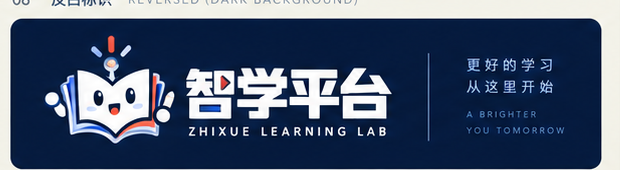
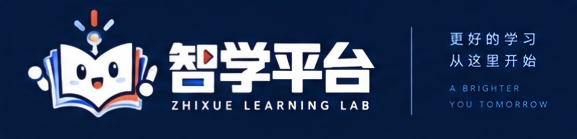
design: freeze zhixue visual system and first vertical slice

diff --git a/frontend/src/features/exam/exam-slice.css b/frontend/src/features/exam/exam-slice.css
@@ -1,0 +1,1 @@
+.exam-page{--ink:#0b1a38;--paper:#f3f0e6;--coral:#ff6a50;--blue:#a9c8d8;--mint:#c8dfd6;--yellow:#f5d885;--rule:#aeb6be;background-color:var(--paper);background-image:linear-gradient(rgba(11,26,56,.045) 1px,transparent 1px),linear-gradient(90deg,rgba(11,26,56,.045) 1px,transparent 1px);background-size:24px 24px;color:var(--ink);min-height:calc(100vh - 64px);padding:0 max(24px,calc((100vw - 1320px)/2)) 76px}.exam-page h1,.exam-page h2,.exam-page h3,.exam-page p{margin-top:0}.exam-page p{letter-spacing:.08em;font-size:.72rem}.exam-page h1{font-size:clamp(3.4rem,6.5vw,6.8rem);line-height:.92;letter-spacing:-.075em}.exam-page h2{font-size:clamp(2rem,4.2vw,4.5rem);line-height:.94;letter-spacing:-.065em}.exam-page article{max-width:36rem;color:#526078;line-height:1.8}.exam-page footer{border-top:1px solid var(--rule);padding-top:24px;color:#526078;font-size:.85rem;line-height:1.7}.exam-action{display:inline-flex;align-items:center;gap:12px;min-height:48px;padding:0 18px;background:var(--coral);color:var(--ink);font-weight:800;text-decoration:none}.exam-action:hover{background:#ff806a}.exam-crumb{display:flex;justify-content:space-between;align-items:center;min-height:76px;border-bottom:1px solid var(--rule);font-size:.8rem}.exam-crumb a{display:flex;gap:6px;color:var(--ink);text-decoration:none}.journal-note{display:inline-block;background:var(--yellow);padding:18px 22px;color:var(--ink);font-family:cursive;font-size:1rem;line-height:1.5;box-shadow:8px 8px 0 rgba(11,26,56,.12);transform:rotate(-4deg)}.world-intro,.journal-hero,.os-hero{display:grid;gap:6vw;align-items:center}.world-intro{grid-template-columns:1fr 1fr;padding:8vw 0 4vw}.world-note{margin:0 0 52px 8%;background:#f9e4bd}.target-map{border:1px solid var(--ink);padding:32px;display:grid;grid-template-columns:1fr 55px 1fr;gap:16px;align-items:center;background:rgba(255,255,255,.35)}.target-map>div{display:grid;gap:6px}.target-map small,.os-current small{letter-spacing:.12em;font-size:.65rem}.target-map strong{font-size:2rem}.target-map>i{height:1px;background:var(--ink)}.target-map ol{grid-column:1/-1;display:grid;grid-template-columns:repeat(4,1fr);gap:8px;margin:18px 0 0;padding:0;list-style:none}.target-map li{display:grid;gap:4px;border-top:2px solid var(--ink);padding-top:10px;font-size:.85rem}.target-map li b{color:#63748e}.target-map li.is-current{border-color:var(--coral);color:var(--coral)}.target-map p{grid-column:1/-1;margin:0;color:#63748e;letter-spacing:0}.study-route-page .journal-hero{grid-template-columns:.8fr 1.2fr;padding:7vw 0}.route-sheet{position:relative;border:1px solid var(--ink);padding:30px;background:rgba(255,255,255,.25)}.route-sheet>.journal-note{position:absolute;right:-12px;bottom:-35px;background:var(--mint);font-size:.85rem}.subject-route{display:grid;grid-template-columns:repeat(4,1fr);margin:28px 0}.subject-route a{position:relative;display:grid;gap:4px;color:var(--ink);text-decoration:none;border-top:2px solid var(--ink);padding:13px 8px 0}.subject-route a>i{position:absolute;right:-8px;top:24px;width:15px;height:1px;background:var(--ink)}.subject-route b{font-size:.7rem;color:#71809a}.subject-route strong{font-size:1.55rem}.subject-route span{font-size:.78rem}.subject-route .is-current{background:var(--ink);color:var(--paper);padding:13px 10px}.focus-panel{display:grid;grid-template-columns:1fr .6fr;gap:8vw;border-top:2px solid var(--ink);border-bottom:1px solid var(--rule);padding:48px 0;margin-bottom:54px}.focus-panel h2 span{color:var(--coral)}.focus-panel>div:last-child{display:grid;align-content:center;justify-items:start;border-left:1px solid var(--ink);padding-left:32px}.focus-panel strong{font-size:5rem;line-height:.8}.focus-panel a{color:var(--ink);font-weight:700}.exam-next{display:flex;justify-content:space-between;gap:30px;align-items:end;border-top:2px solid var(--ink);border-bottom:1px solid var(--rule);padding:30px 0}.exam-next .exam-action{margin:0}.os-hero{grid-template-columns:1fr 1.05fr .66fr;padding:5vw 0 4vw;border-bottom:2px solid var(--ink)}.os-hero .journal-note{margin-top:35px;background:#f6e09b}.os-current{display:grid;gap:11px;border-left:1px solid var(--ink);padding-left:24px}.os-current strong{font-size:1.6rem;line-height:1.1}.memory-diagram{display:grid;grid-template-columns:1fr 38px 1fr 38px 1fr;gap:7px;align-items:center;margin:0;padding:20px;border:1px solid var(--rule);background:rgba(255,255,255,.34)}.memory-diagram>div{display:grid;gap:9px;min-height:130px;padding:13px 10px;border:1px solid var(--rule);background:#eef1ec}.memory-diagram .is-table{background:#e6edf0}.memory-diagram .is-frame{background:linear-gradient(#d2e5df 0 33%,#f8df96 33% 66%,#cbd8df 66%)}.memory-diagram b{font-size:.56rem;letter-spacing:.05em}.memory-diagram strong{font-size:1.2rem}.memory-diagram span{font-size:.65rem;color:#51617a}.memory-diagram>i{height:1px;background:var(--ink)}.memory-diagram figcaption{grid-column:1/-1;margin-top:12px;text-align:center;font-weight:700;font-size:.75rem}.memory-diagram em{padding:0 8px;color:var(--coral);font-style:normal}.os-map{position:relative;display:grid;grid-template-columns:.6fr 1.4fr;gap:6vw;padding:56px 0}.knowledge-path{position:relative;display:grid;gap:0;margin:0;padding:0;list-style:none}.knowledge-path:before{position:absolute;left:14px;top:28px;bottom:28px;width:1px;background:var(--rule);content:''}.knowledge-path li{position:relative;display:grid;grid-template-columns:40px 1fr .8fr auto;gap:14px;align-items:center;min-height:100px;border-bottom:1px solid var(--rule)}.knowledge-path li>span{z-index:1;width:13px;height:13px;border:2px solid var(--ink);border-radius:50%;background:var(--paper)}.knowledge-path li.is-current{margin-left:-15px;padding:0 15px;border-left:3px solid var(--coral);background:rgba(255,106,80,.12)}.knowledge-path li.is-current>span{border-color:var(--coral);background:var(--coral)}.knowledge-path h3{margin:0 0 5px;font-size:1.35rem}.knowledge-path p{margin:0;color:#526078;letter-spacing:0}.knowledge-path small{color:#63748e}.knowledge-path .exam-action{min-height:42px;margin:0}.map-note{position:absolute;left:3%;bottom:3px;background:#f9e4bd}.workspace header{max-width:66rem;padding:44px 0 30px}.workspace-journal{display:grid;grid-template-columns:1fr 210px;gap:5vw;border-top:2px solid var(--ink);padding-top:24px}.steps{display:flex;gap:18px;font-size:.75rem}.steps b{border-bottom:3px solid var(--coral);padding-bottom:10px}.lede{font-size:1.18rem;margin:30px 0}.mapping-sheet{display:grid;grid-template-columns:.65fr 1.35fr;gap:26px;padding:28px;border:1px solid var(--ink);background:rgba(235,242,244,.65)}.mapping-sheet h2{font-size:2.4rem}.mapping-sheet .journal-note{margin-top:28px;background:#f6e09b;font-size:.82rem}.mapping-sheet .memory-diagram{align-self:center}.mapping-sheet ol{grid-column:1/-1;display:grid;grid-template-columns:repeat(3,1fr);gap:10px;margin:0;padding:0;list-style:none}.mapping-sheet li{border-top:2px solid var(--ink);padding-top:8px;font-size:.84rem}.mapping-sheet li b{display:block;color:var(--coral);font-size:.7rem}.tool-rail{display:grid;align-content:start;gap:9px;border-left:1px solid var(--ink);padding-left:16px}.tool-rail>p{margin:0 0 10px}.workspace button{min-height:44px;border:1px solid var(--ink);background:transparent;color:var(--ink);font-weight:700}.tool-rail button{display:flex;gap:7px;align-items:center;padding:0 10px;text-align:left}.tool{padding:14px;background:#f9e4bd;border-left:3px solid var(--coral);line-height:1.6;font-size:.85rem}.tool p{letter-spacing:0}.check{display:flex;justify-content:space-between;gap:24px;border-bottom:1px solid var(--rule);padding:28px 0}.check h2{font-size:1.8rem}.check button{padding:0 16px;align-self:end}.exam-page a:focus-visible,.exam-page button:focus-visible{outline:3px solid var(--coral);outline-offset:4px}@media(max-width:760px){.exam-page{padding:0 16px 52px;background-size:18px 18px}.exam-page h1{font-size:clamp(3rem,14vw,4.7rem)}.exam-crumb{align-items:flex-start;flex-direction:column;gap:10px;padding:15px 0}.world-intro,.journal-hero,.os-hero,.focus-panel,.os-map,.workspace-journal,.mapping-sheet{grid-template-columns:1fr;gap:28px}.world-intro,.study-route-page .journal-hero{padding:55px 0}.target-map{grid-template-columns:1fr 30px 1fr;padding:20px}.target-map ol{grid-template-columns:repeat(2,1fr)}.world-note{margin-left:0}.route-sheet>.journal-note{position:static;margin-top:24px}.subject-route{grid-template-columns:repeat(2,1fr)}.subject-route a:nth-child(2)>i{display:none}.focus-panel>div:last-child,.os-current{border-left:0;border-top:1px solid var(--ink);padding:22px 0 0}.os-current{grid-template-columns:1fr;}.memory-diagram{grid-template-columns:1fr;gap:10px}.memory-diagram>i{width:1px;height:18px;margin-left:18px}.memory-diagram>div{min-height:78px}.os-map{padding-top:45px}.knowledge-path li{grid-template-columns:32px 1fr;gap:10px;padding:16px 0}.knowledge-path li>small,.knowledge-path .exam-action{grid-column:2}.knowledge-path .exam-action{justify-self:start}.map-note{position:static;margin-top:12px}.workspace header{padding-top:35px}.steps{justify-content:space-between;gap:6px;font-size:.68rem}.lede{font-size:1.08rem}.mapping-sheet{padding:20px}.mapping-sheet h2{font-size:2.15rem}.mapping-sheet ol{grid-template-columns:1fr}.tool-rail{grid-template-columns:repeat(3,1fr);border-left:0;border-top:1px solid var(--ink);padding:16px 0 0}.tool-rail>p,.tool{grid-column:1/-1}.tool-rail button{min-height:48px;justify-content:center;padding:0 5px;font-size:.76rem}.tool-rail svg{display:none}.check{align-items:flex-start;flex-direction:column}.exam-next{align-items:flex-start;flex-direction:column}}

diff --git a/frontend/src/features/exam/exam-slice.tsx b/frontend/src/features/exam/exam-slice.tsx
@@ -1,0 +1,21 @@
+import { useState } from 'react';
+import { Link, useLocation } from '@tanstack/react-router';
+import { ArrowLeft, ArrowUpRight, Bot, FileText, Play } from 'lucide-react';
+import './exam-slice.css';
+import './exam-slice-v2-fixes.css';
+import './exam-slice-v2-1.css';
+
+const subjects = [['数据结构', 'DS'], ['计算机组成原理', 'CO'], ['操作系统', 'OS'], ['计算机网络', 'CN']] as const;
+const nodes = [['MM-01', '存储管理基础', '逻辑地址与物理地址'], ['MM-02', '虚拟内存地址映射', '页号、页表与物理帧'], ['MM-03', '页面置换算法', '缺页处理与置换策略'], ['MM-04', '工作集与抖动', '局部性与内存分配']] as const;
+const A = ({ children }: { children: React.ReactNode }) => <Link className="exam-action" to="/exam/11408/operating-system/workspace">{children}<ArrowUpRight aria-hidden="true" /></Link>;
+const Crumb = ({ current, back }: { current: string; back: string }) => <div className="exam-crumb"><Link to={back as '/exam' | '/exam/11408'}><ArrowLeft aria-hidden="true" />返回</Link><span>考研 / 11408 / {current}</span></div>;
+
+function Note({ children, className = '' }: { children: React.ReactNode; className?: string }) { return <aside className={`journal-note ${className}`}>{children}</aside>; }
+function MemoryDiagram() { return <figure className="memory-diagram" aria-label="虚拟地址经页表映射到物理帧"><div><b>VIRTUAL ADDRESS</b><strong>PAGE 02</strong><span>OFFSET 0x3F</span></div><i /><div className="is-table"><b>PAGE TABLE</b><strong>ROW 02</strong><span>FRAME 05</span></div><i /><div className="is-frame"><b>PHYSICAL FRAME</b><strong>05</strong><span>OFFSET 0x3F</span></div><figcaption>虚拟地址 <em>→</em> 页表 <em>→</em> 物理帧</figcaption></figure>; }
+function SubjectRoute() { return <div className="subject-route" aria-label="11408 四科备考路线">{subjects.map(([name, code], index) => <Link key={code} to={code === 'OS' ? '/exam/11408/operating-system' : '/exam/11408'} className={code === 'OS' ? 'is-current' : ''}><b>{String(index + 1).padStart(2, '0')}</b><strong>{code}</strong><span>{name}</span>{index < 3 && <i aria-hidden="true" />}</Link>)}</div>; }
+function TargetMap() { return <div className="target-map" aria-label="11408 考试目标图"><div><small>TARGET</small><strong>计算机考研</strong></div><i /><div><small>EXAM CODE</small><strong>11408</strong><span>当前开放目标</span></div><ol>{subjects.map(([name, code]) => <li className={code === 'OS' ? 'is-current' : ''} key={code}><b>{code}</b>{name}</li>)}</ol><p>OS 是当前学习焦点，不代表个人进度。</p></div>; }
+
+export function ExamWorldPage() { const pathname = useLocation({ select: l => l.pathname }); if (pathname.endsWith('/workspace')) return <LearningWorkspacePage />; if (pathname.endsWith('/operating-system')) return <OperatingSystemPage />; if (pathname.endsWith('/11408')) return <Exam11408Page />; return <main className="exam-page exam-world"><section className="world-intro"><div><p>考研学习 / TARGET MAP</p><h1>把准备，放回<br />一个明确的目标里。</h1><article>选择考试目标，然后沿着阶段、科目与知识结构继续推进。当前开放的完整目标是计算机考研 11408。</article><Link className="exam-action" to="/exam/11408">进入 11408<ArrowUpRight aria-hidden="true" /></Link></div><TargetMap /></section><Note className="world-note">目标不是待办清单。<br />它是一条可回看的学习坐标。</Note><footer>数学、英语、联考等方向保留为后续扩展架构；当前不展示未实现的学习数据或入口。</footer></main>; }
+export function Exam11408Page() { return <main className="exam-page study-route-page"><Crumb current="11408" back="/exam" /><section className="journal-hero"><div><p>2027 计算机考研 / STUDY ROUTE</p><h1>11408 的<br />备考地图</h1><article>从四门基础课出发，把当前节点、下一行动与完整路径放在同一张目标图里。</article></div><div className="route-sheet"><b>11408 / FOUR SUBJECTS</b><SubjectRoute /><Note>沿目标轴进入学习，<br />而不是把四科拆成四张卡片。</Note></div></section><section className="focus-panel"><div><p>当前学习焦点</p><h2>操作系统<br /><span>存储管理</span></h2><article>当前焦点是结构位置，不是完成百分比或个人掌握度。</article></div><div><small>FOCUS</small><strong>OS</strong><Link to="/exam/11408/operating-system">查看知识结构 <ArrowUpRight /></Link></div></section><section className="exam-next"><div><p>下一结构节点</p><h2>页面置换算法</h2><article>这是虚拟内存地址映射完成后的结构性下一步，并非 AI 推荐。</article></div><A>继续学习</A></section></main>; }
+export function OperatingSystemPage() { return <main className="exam-page os-page"><Crumb current="操作系统" back="/exam/11408" /><section className="os-hero"><div><p>11408 / 操作系统 / KNOWLEDGE MAP</p><h1>从备考目标，进入<br />知识的组织方式。</h1><article>当前聚焦存储管理。这里展示知识结构和可进入的学习行动，而不是课程式目录。</article><Note>先理解地址映射，<br />再处理页面置换。</Note></div><MemoryDiagram /><div className="os-current"><small>当前节点</small><strong>虚拟内存地址映射</strong><span>页号、页表与物理帧</span><A>继续学习</A></div></section><section className="os-map"><div><p>存储管理 / MEMORY MANAGEMENT</p><h2>从地址到<br />物理帧</h2><article>沿节点推进：先理解地址映射，再处理页面置换。</article></div><ol className="knowledge-path">{nodes.map(([id, name, note], index) => <li className={index === 1 ? 'is-current' : ''} key={id}><span /><b>{id}</b><div><h3>{name}</h3><p>{note}</p></div>{index === 1 ? <><small>当前学习节点</small><A>开始当前节点</A></> : <small>{index === 0 ? '建立概念基础' : index === 2 ? '处理缺页异常' : '进入性能视角'}</small>}</li>)}</ol><Note className="map-note">理解映射的本质，<br />才能真正掌握虚拟内存。</Note></section><footer>章节练习与个人学习状态将在真实 API 可用时读取；未以示例进度、掌握度或题目数量替代。</footer></main>; }
+export function LearningWorkspacePage() { const [tool, setTool] = useState<'none' | 'ai' | 'resource' | 'relation' | 'hint'>('none'); const title = tool === 'ai' ? 'AI Tutor' : tool === 'resource' ? '相关资料' : tool === 'relation' ? '关联关系' : '提示'; const text = tool === 'ai' ? '提问会自动携带：11408 · 操作系统 · 存储管理 · 虚拟内存。' : tool === 'relation' ? '页表连接虚拟页号与物理帧号；页内偏移在映射两端保持同一位置。' : '页表把虚页号换成物理帧号；页内偏移描述页内位置，所以它无需改变。'; return <main className="exam-page workspace"><Crumb current="虚拟内存地址映射" back="/exam/11408/operating-system" /><header><p>11408 · 操作系统 · 存储管理 / LEARNING JOURNAL</p><h1>一个虚拟地址，是怎样找到物理内存中的位置的？</h1><span>当前学习对象：虚拟内存地址映射</span></header><section className="workspace-journal"><div><nav className="steps"><b>01 理解</b><span>02 映射</span><span>03 结果</span><span>04 检查</span></nav><article className="lede">程序看到的是虚拟地址；硬件与操作系统通过页表，把其中的页号定位到一个物理帧，再保留页内偏移完成转换。</article><div className="mapping-sheet"><div><p>VISUAL EXPLANATION</p><h2>地址翻译的<br />三个保留与替换</h2><Note>页号会被替换，<br />页内偏移不会改变。</Note></div><MemoryDiagram /><ol><li><b>01</b>保留页内偏移</li><li><b>02</b>页表查找物理帧</li><li><b>03</b>组合成物理地址</li></ol></div><div className="check"><div><p>轻量检查 / CHECK</p><h2>页内偏移在映射后为什么不变？</h2></div><button onClick={() => setTool('hint')}>查看提示</button></div></div><aside className="tool-rail"><p>CONTEXT TOOLS</p><button onClick={() => setTool(tool === 'ai' ? 'none' : 'ai')}><Bot />问 AI</button><button onClick={() => setTool(tool === 'resource' ? 'none' : 'resource')}><FileText />相关资料</button><button onClick={() => setTool(tool === 'relation' ? 'none' : 'relation')}>↗ 关联关系</button>{tool !== 'none' && <div className="tool"><strong>{title}</strong><p>{text}</p></div>}</aside></section><section className="exam-next"><div><p>完成后 / NEXT</p><h2>继续到页面置换算法</h2><article>这是存储管理路径中的下一个结构节点，不是个人化或 AI 推荐。</article></div><Link className="exam-action" to="/exam/11408/operating-system">回到知识结构 <ArrowUpRight /></Link></section><footer><Play />练习入口将使用现有章节题目接口；当前原型不伪造统一题库。</footer></main>; }

diff --git a/frontend/src/features/exam/exam-slice-v2-1.css b/frontend/src/features/exam/exam-slice-v2-1.css
@@ -1,0 +1,85 @@
+/* V2.1: composition coordination; preserves the V2 journal system. */
+.target-map { position: relative; }
+.target-map::before { position: absolute; left: 17%; right: 17%; top: 39%; height: 1px; background: var(--coral); content: ''; }
+.target-map ol { position: relative; }
+.target-map li::before { display: block; width: 7px; height: 7px; margin: -14px 0 9px; border: 1px solid var(--ink); border-radius: 50%; background: var(--paper); content: ''; }
+.target-map li.is-current::before { border-color: var(--coral); background: var(--coral); }
+
+.os-hero .memory-diagram { position: relative; margin-top: 26px; }
+.os-hero .memory-diagram::before { position: absolute; top: -28px; left: -42px; width: 66px; height: 28px; border-top: 1px solid var(--coral); border-left: 1px solid var(--coral); content: ''; }
+.os-current { align-self: center; }
+.tool-rail { position: relative; }
+.tool-rail::before { position: absolute; top: 0; bottom: 0; left: -1px; width: 3px; background: var(--coral); content: ''; }
+.tool-rail button { border: 0; border-bottom: 1px solid var(--rule); }
+.tool-rail button::before { color: var(--coral); font-size: .65rem; font-weight: 800; }
+.tool-rail button:nth-of-type(1)::before { content: '01'; }
+.tool-rail button:nth-of-type(2)::before { content: '02'; }
+.tool-rail button:nth-of-type(3)::before { content: '03'; }
+
+@media (max-width: 600px) {
+  .exam-page { padding-inline: 16px; }
+  .exam-page h1 { font-size: clamp(2.65rem, 12.5vw, 3.75rem); line-height: .96; }
+  .exam-page h2 { font-size: clamp(1.9rem, 9.5vw, 2.8rem); }
+  .world-intro, .study-route-page .journal-hero { padding-block: 42px 32px; }
+  .world-intro > div > article, .journal-hero > div > article { margin-bottom: 22px; }
+  .target-map { margin-top: 4px; padding: 22px 18px 18px; }
+  .target-map::before { top: 34%; }
+  .target-map ol { gap: 15px 10px; margin-top: 25px; }
+  .target-map p { margin-top: 9px; }
+
+  .study-route-page .journal-hero { display: flex; flex-direction: column; align-items: stretch; }
+  .study-route-page .journal-hero > div:first-child { max-width: 310px; }
+  .route-sheet { order: 2; padding: 22px 16px; }
+  .route-sheet > .journal-note { display: none; }
+  .subject-route { grid-template-columns: repeat(4, 1fr); margin: 18px 0 2px; }
+  .subject-route a { min-width: 0; padding-inline: 5px; }
+  .subject-route a > i { right: -5px; width: 9px; }
+  .subject-route strong { font-size: 1.28rem; }
+  .subject-route span { font-size: .68rem; line-height: 1.25; word-break: keep-all; }
+  .focus-panel { margin-bottom: 34px; padding: 30px 0; }
+  .focus-panel h2 { margin-bottom: 10px; }
+  .focus-panel > div:last-child { display: grid; grid-template-columns: auto 1fr; column-gap: 17px; align-items: center; }
+  .focus-panel > div:last-child strong { grid-row: 1 / span 2; font-size: 3.7rem; }
+  .focus-panel > div:last-child a { grid-column: 2; }
+
+  .os-hero { display: grid; grid-template-areas: 'identity' 'visual' 'current'; gap: 22px; padding: 32px 0 25px; }
+  .os-hero > div:first-child { grid-area: identity; }
+  .os-hero > .memory-diagram { grid-area: visual; margin-top: 0; }
+  .os-current { grid-area: current; grid-template-columns: 1fr auto; column-gap: 12px; padding: 18px; border: 1px solid var(--coral); border-left: 4px solid var(--coral); background: rgba(255,106,80,.09); }
+  .os-current small, .os-current span { grid-column: 1; }
+  .os-current .exam-action { grid-column: 2; grid-row: 1 / span 3; align-self: center; margin: 0; }
+  .os-hero .journal-note { display: none; }
+  .os-hero .memory-diagram::before { display: none; }
+  .memory-diagram { grid-template-columns: 1fr 20px 1fr 20px 1fr; padding: 14px 10px; }
+  .memory-diagram > div { min-height: 92px; padding: 9px 7px; }
+  .memory-diagram b { font-size: .48rem; }
+  .memory-diagram strong { font-size: 1rem; }
+  .memory-diagram span { font-size: .56rem; }
+  .memory-diagram > i { width: auto; height: 1px; margin: 0; }
+  .os-map { display: block; padding: 35px 0 22px; }
+  .os-map > div:first-child { max-width: 280px; margin-bottom: 24px; }
+  .knowledge-path { gap: 0; }
+  .knowledge-path::before { left: 12px; top: 34px; bottom: 34px; }
+  .knowledge-path li, .knowledge-path li.is-current { display: grid; grid-template-columns: 30px minmax(0, 1fr); gap: 9px; min-height: 0; margin: 0; padding: 20px 0 20px 2px; border-left: 0; background: transparent; }
+  .knowledge-path li.is-current { margin-inline: -4px; padding: 20px 14px 22px 6px; border-left: 3px solid var(--coral); background: rgba(255,106,80,.11); }
+  .knowledge-path li > span { width: 11px; height: 11px; margin-top: 4px; }
+  .knowledge-path li > b { grid-column: 2; grid-row: 1; color: var(--coral); }
+  .knowledge-path li > div { grid-column: 2; grid-row: 2; min-width: 0; }
+  .knowledge-path li h3 { font-size: 1.32rem; line-height: 1.15; white-space: nowrap; word-break: keep-all; }
+  .knowledge-path li p { font-size: .86rem; line-height: 1.55; }
+  .knowledge-path li > small { grid-column: 2; grid-row: 3; margin-top: 3px; }
+  .knowledge-path li.is-current > .exam-action { grid-column: 2; grid-row: 4; justify-self: start; margin-top: 8px; }
+  .map-note { display: none; }
+
+  .workspace header { padding-top: 31px; }
+  .workspace header h1 { max-width: 360px; }
+  .workspace-journal { gap: 22px; }
+  .mapping-sheet { gap: 19px; }
+  .mapping-sheet .journal-note { transform: rotate(-2deg); }
+  .tool-rail { grid-template-columns: 1fr; gap: 0; border: 0; padding: 0 0 0 13px; }
+  .tool-rail::before { left: 0; }
+  .tool-rail > p { margin: 0; padding: 0 0 8px; }
+  .tool-rail button { justify-content: flex-start; min-height: 42px; font-size: .86rem; }
+  .tool-rail svg { display: block; width: 15px; }
+  .tool { margin-top: 10px; }
+}

diff --git a/frontend/src/routeTree.gen.ts b/frontend/src/routeTree.gen.ts
@@ -10,33 +10,88 @@
 
 import { Route as rootRouteImport } from './routes/__root'
 import { Route as IndexRouteImport } from './routes/index'
+import { Route as ExamRouteImport } from './routes/exam'
+import { Route as Exam11408RouteImport } from './routes/exam.11408'
+import { Route as Exam11408OperatingSystemRouteImport } from './routes/exam.11408.operating-system'
+import { Route as Exam11408OperatingSystemWorkspaceRouteImport } from './routes/exam.11408.operating-system.workspace'
 
 const IndexRoute = IndexRouteImport.update({
   id: '/',
   path: '/',
   getParentRoute: () => rootRouteImport,
 } as any)
+const ExamRoute = ExamRouteImport.update({
+  id: '/exam',
+  path: '/exam',
+  getParentRoute: () => rootRouteImport,
+} as any)
+const Exam11408Route = Exam11408RouteImport.update({
+  id: '/11408',
+  path: '/11408',
+  getParentRoute: () => ExamRoute,
+} as any)
+const Exam11408OperatingSystemRoute =
+  Exam11408OperatingSystemRouteImport.update({
+    id: '/operating-system',
+    path: '/operating-system',
+    getParentRoute: () => Exam11408Route,
+  } as any)
+const Exam11408OperatingSystemWorkspaceRoute =
+  Exam11408OperatingSystemWorkspaceRouteImport.update({
+    id: '/workspace',
+    path: '/workspace',
+    getParentRoute: () => Exam11408OperatingSystemRoute,
+  } as any)
 
 export interface FileRoutesByFullPath {
   '/': typeof IndexRoute
+  '/exam': typeof ExamRouteWithChildren
+  '/exam/11408': typeof Exam11408RouteWithChildren
+  '/exam/11408/operating-system': typeof Exam11408OperatingSystemRouteWithChildren
+  '/exam/11408/operating-system/workspace': typeof Exam11408OperatingSystemWorkspaceRoute
 }
 export interface FileRoutesByTo {
   '/': typeof IndexRoute
+  '/exam': typeof ExamRouteWithChildren
+  '/exam/11408': typeof Exam11408RouteWithChildren
+  '/exam/11408/operating-system': typeof Exam11408OperatingSystemRouteWithChildren
+  '/exam/11408/operating-system/workspace': typeof Exam11408OperatingSystemWorkspaceRoute
 }
 export interface FileRoutesById {
   __root__: typeof rootRouteImport
   '/': typeof IndexRoute
+  '/exam': typeof ExamRouteWithChildren
+  '/exam/11408': typeof Exam11408RouteWithChildren
+  '/exam/11408/operating-system': typeof Exam11408OperatingSystemRouteWithChildren
+  '/exam/11408/operating-system/workspace': typeof Exam11408OperatingSystemWorkspaceRoute
 }
 export interface FileRouteTypes {
   fileRoutesByFullPath: FileRoutesByFullPath
-  fullPaths: '/'
+  fullPaths:
+    | '/'
+    | '/exam'
+    | '/exam/11408'
+    | '/exam/11408/operating-system'
+    | '/exam/11408/operating-system/workspace'
   fileRoutesByTo: FileRoutesByTo
-  to: '/'
-  id: '__root__' | '/'
+  to:
+    | '/'
+    | '/exam'
+    | '/exam/11408'
+    | '/exam/11408/operating-system'
+    | '/exam/11408/operating-system/workspace'
+  id:
+    | '__root__'
+    | '/'
+    | '/exam'
+    | '/exam/11408'
+    | '/exam/11408/operating-system'
+    | '/exam/11408/operating-system/workspace'
   fileRoutesById: FileRoutesById
 }
 export interface RootRouteChildren {
   IndexRoute: typeof IndexRoute
+  ExamRoute: typeof ExamRouteWithChildren
 }
 
 declare module '@tanstack/react-router' {
@@ -48,11 +103,77 @@ declare module '@tanstack/react-router' {
       preLoaderRoute: typeof IndexRouteImport
       parentRoute: typeof rootRouteImport
     }
+    '/exam': {
+      id: '/exam'
+      path: '/exam'
+      fullPath: '/exam'
+      preLoaderRoute: typeof ExamRouteImport
+      parentRoute: typeof rootRouteImport
+    }
+    '/exam/11408': {
+      id: '/exam/11408'
+      path: '/11408'
+      fullPath: '/exam/11408'
+      preLoaderRoute: typeof Exam11408RouteImport
+      parentRoute: typeof ExamRoute
+    }
+    '/exam/11408/operating-system': {
+      id: '/exam/11408/operating-system'
+      path: '/operating-system'
+      fullPath: '/exam/11408/operating-system'
+      preLoaderRoute: typeof Exam11408OperatingSystemRouteImport
+      parentRoute: typeof Exam11408Route
+    }
+    '/exam/11408/operating-system/workspace': {
+      id: '/exam/11408/operating-system/workspace'
+      path: '/workspace'
+      fullPath: '/exam/11408/operating-system/workspace'
+      preLoaderRoute: typeof Exam11408OperatingSystemWorkspaceRouteImport
+      parentRoute: typeof Exam11408OperatingSystemRoute
+    }
   }
 }
 
+interface Exam11408OperatingSystemRouteChildren {
+  Exam11408OperatingSystemWorkspaceRoute: typeof Exam11408OperatingSystemWorkspaceRoute
+}
+
+const Exam11408OperatingSystemRouteChildren: Exam11408OperatingSystemRouteChildren =
+  {
+    Exam11408OperatingSystemWorkspaceRoute:
+      Exam11408OperatingSystemWorkspaceRoute,
+  }
+
+const Exam11408OperatingSystemRouteWithChildren =
+  Exam11408OperatingSystemRoute._addFileChildren(
+    Exam11408OperatingSystemRouteChildren,
+  )
+
+interface Exam11408RouteChildren {
+  Exam11408OperatingSystemRoute: typeof Exam11408OperatingSystemRouteWithChildren
+}
+
+const Exam11408RouteChildren: Exam11408RouteChildren = {
+  Exam11408OperatingSystemRoute: Exam11408OperatingSystemRouteWithChildren,
+}
+
+const Exam11408RouteWithChildren = Exam11408Route._addFileChildren(
+  Exam11408RouteChildren,
+)
+
+interface ExamRouteChildren {
+  Exam11408Route: typeof Exam11408RouteWithChildren
+}
+
+const ExamRouteChildren: ExamRouteChildren = {
+  Exam11408Route: Exam11408RouteWithChildren,
+}
+
+const ExamRouteWithChildren = ExamRoute._addFileChildren(ExamRouteChildren)
+
 const rootRouteChildren: RootRouteChildren = {
   IndexRoute: IndexRoute,
+  ExamRoute: ExamRouteWithChildren,
 }
 export const routeTree = rootRouteImport
   ._addFileChildren(rootRouteChildren)

diff --git a/frontend/src/components/layout/app-shell.tsx b/frontend/src/components/layout/app-shell.tsx
@@ -6,14 +6,17 @@ export function AppShell({ children }: { children: ReactNode }) {
   return (
     <div className="min-h-screen overflow-x-hidden bg-page-background text-text-primary">
       <header className="border-b border-lab-grid/60 bg-lab-ink text-lab-paper">
-        <div className="mx-auto flex h-16 w-full max-w-content items-center px-5 sm:px-8 lg:px-12">
-          <Link to="/" className="shrink-0" aria-label="智学平台首页">
-            <img src="/brand/zhixue-v2/08_智学平台_反白标识_Reversed_Dark.png" alt="智学平台" className="hidden h-10 w-auto sm:block" />
+        <div className="mx-auto flex h-16 w-full max-w-content items-center px-5 sm:px-8 lg:mx-0 lg:h-[76px] lg:max-w-none lg:px-6">
+          <Link to="/" className="inline-flex shrink-0 items-center" aria-label="智学平台首页">
+            <img src="/brand/zhixue-v2/08_智学平台_Desktop_Header_Lockup.png" alt="智学平台" className="hidden h-[42px] w-auto object-contain sm:block lg:h-[54px]" />
             <img src="/brand/zhixue-v2/04_智学平台_图标标识_Icon_Only_transparent.png" alt="智学平台" className="size-9 object-contain sm:hidden" />
           </Link>
-          <nav className="ml-10 hidden items-center gap-7 text-body !text-lab-paper-muted md:flex" aria-label="主导航">
-            <Link to="/" className="font-medium !text-lab-paper" activeProps={{ 'aria-current': 'page' }}>首页</Link>
+          <div className="ml-4 hidden border-l border-lab-paper/35 pl-4 text-[10px] leading-[1.35] tracking-[0.08em] text-lab-paper-muted lg:block" aria-label="品牌宣言">
+            <span className="block">更好的学习</span><span className="block">从这里开始</span><span className="mt-1 block text-[7px] tracking-[0.14em] text-lab-paper/60">A BRIGHTER YOU TOMORROW</span>
+          </div>
+          <nav className="ml-8 hidden items-center gap-7 text-body !text-lab-paper-muted md:flex lg:ml-10" aria-label="主导航">
             <a href="#learning-worlds" className="!text-lab-paper-muted transition-colors hover:!text-lab-paper">探索学习</a>
+            <Link to="/" className="font-medium !text-lab-paper" activeProps={{ 'aria-current': 'page' }}>首页</Link>
           </nav>
           <div className="ml-auto flex items-center gap-2">
             <button type="button" aria-label="搜索学习内容" className="inline-flex size-11 items-center justify-center rounded-full text-lab-paper transition-colors hover:bg-white/10 focus-visible:outline-none focus-visible:ring-2 focus-visible:ring-lab-accent">

diff --git a/frontend/src/features/home/learning-worlds.tsx b/frontend/src/features/home/learning-worlds.tsx
@@ -15,7 +15,7 @@ function Motif({ type }: { type: (typeof worlds)[number]['motif'] }) {
 export function LearningWorlds() {
   return <section id="learning-worlds" className="lab-index" aria-labelledby="worlds-title">
     <div className="lab-index__heading"><p>LEARNING INDEX / 03 PATHS</p><h2 id="worlds-title">选择你的学习方向</h2><span aria-hidden="true">↓</span></div>
-    <div className="lab-index__rows">{worlds.map((world) => <a href="/#learning-worlds" className={`lab-index__row lab-index__row--${world.motif}`} key={world.id}>
+    <div className="lab-index__rows">{worlds.map((world) => <a href={world.motif === 'target' ? '/exam' : '/#learning-worlds'} className={`lab-index__row lab-index__row--${world.motif}`} key={world.id}>
       <span className="lab-index__number">{world.id}</span><div className="lab-index__identity"><p>{world.english}</p><h3>{world.title}</h3></div><Motif type={world.motif} />
       <div className="lab-index__description"><p>{world.description}</p><small>{world.summary}</small></div><span className="lab-index__action">{world.action}<ArrowUpRight className="size-4" aria-hidden="true" /></span>
     </a>)}</div>

diff --git a/frontend/src/features/home/home-page.tsx b/frontend/src/features/home/home-page.tsx
@@ -1,4 +1,5 @@
 import { ArrowDownRight } from 'lucide-react';
+import { Link } from '@tanstack/react-router';
 import { LearningWorlds } from './learning-worlds';
 import './home-page.css';
 import { VirtualMemoryVisual } from './virtual-memory-visual';
@@ -25,7 +26,7 @@ export function HomePage({ hasCurrentLearning = true }: HomePageProps) {
         </div>
         <VirtualMemoryVisual />
         <div className="lab-hero__action-area">
-          <button className="lab-hero__action" type="button"><span>{action}</span><ArrowDownRight aria-hidden="true" className="size-5" /></button>
+          <Link className="lab-hero__action" to="/exam/11408/operating-system/workspace"><span>{action}</span><ArrowDownRight aria-hidden="true" className="size-5" /></Link>
           {hasCurrentLearning && <p className="lab-hero__next">下一步：页面置换算法</p>}
         </div>
         <p className="lab-hero__coordinate">MEM / 02.05<br />VIRTUAL → PHYSICAL</p>

diff --git a/frontend/src/features/exam/exam-slice-v2-fixes.css b/frontend/src/features/exam/exam-slice-v2-fixes.css
@@ -1,0 +1,6 @@
+.knowledge-path li.is-current > small { display: none; }
+.knowledge-path li.is-current > .exam-action { grid-column: 4; grid-row: 1; }
+
+@media (max-width: 760px) {
+  .knowledge-path li.is-current > .exam-action { grid-column: 2; grid-row: auto; }
+}

diff --git a/frontend/src/routes/exam.11408.operating-system.workspace.tsx b/frontend/src/routes/exam.11408.operating-system.workspace.tsx
@@ -1,0 +1,3 @@
+import { createFileRoute } from '@tanstack/react-router';
+import { LearningWorkspacePage } from '@/features/exam/exam-slice';
+export const Route = createFileRoute('/exam/11408/operating-system/workspace')({ component: LearningWorkspacePage });

diff --git a/frontend/src/routes/exam.11408.operating-system.tsx b/frontend/src/routes/exam.11408.operating-system.tsx
@@ -1,0 +1,3 @@
+import { createFileRoute } from '@tanstack/react-router';
+import { OperatingSystemPage } from '@/features/exam/exam-slice';
+export const Route = createFileRoute('/exam/11408/operating-system')({ component: OperatingSystemPage });

diff --git a/frontend/src/routes/exam.11408.tsx b/frontend/src/routes/exam.11408.tsx
@@ -1,0 +1,3 @@
+import { createFileRoute } from '@tanstack/react-router';
+import { Exam11408Page } from '@/features/exam/exam-slice';
+export const Route = createFileRoute('/exam/11408')({ component: Exam11408Page });

diff --git a/frontend/src/routes/exam.tsx b/frontend/src/routes/exam.tsx
@@ -1,0 +1,3 @@
+import { createFileRoute } from '@tanstack/react-router';
+import { ExamWorldPage } from '@/features/exam/exam-slice';
+export const Route = createFileRoute('/exam')({ component: ExamWorldPage });
